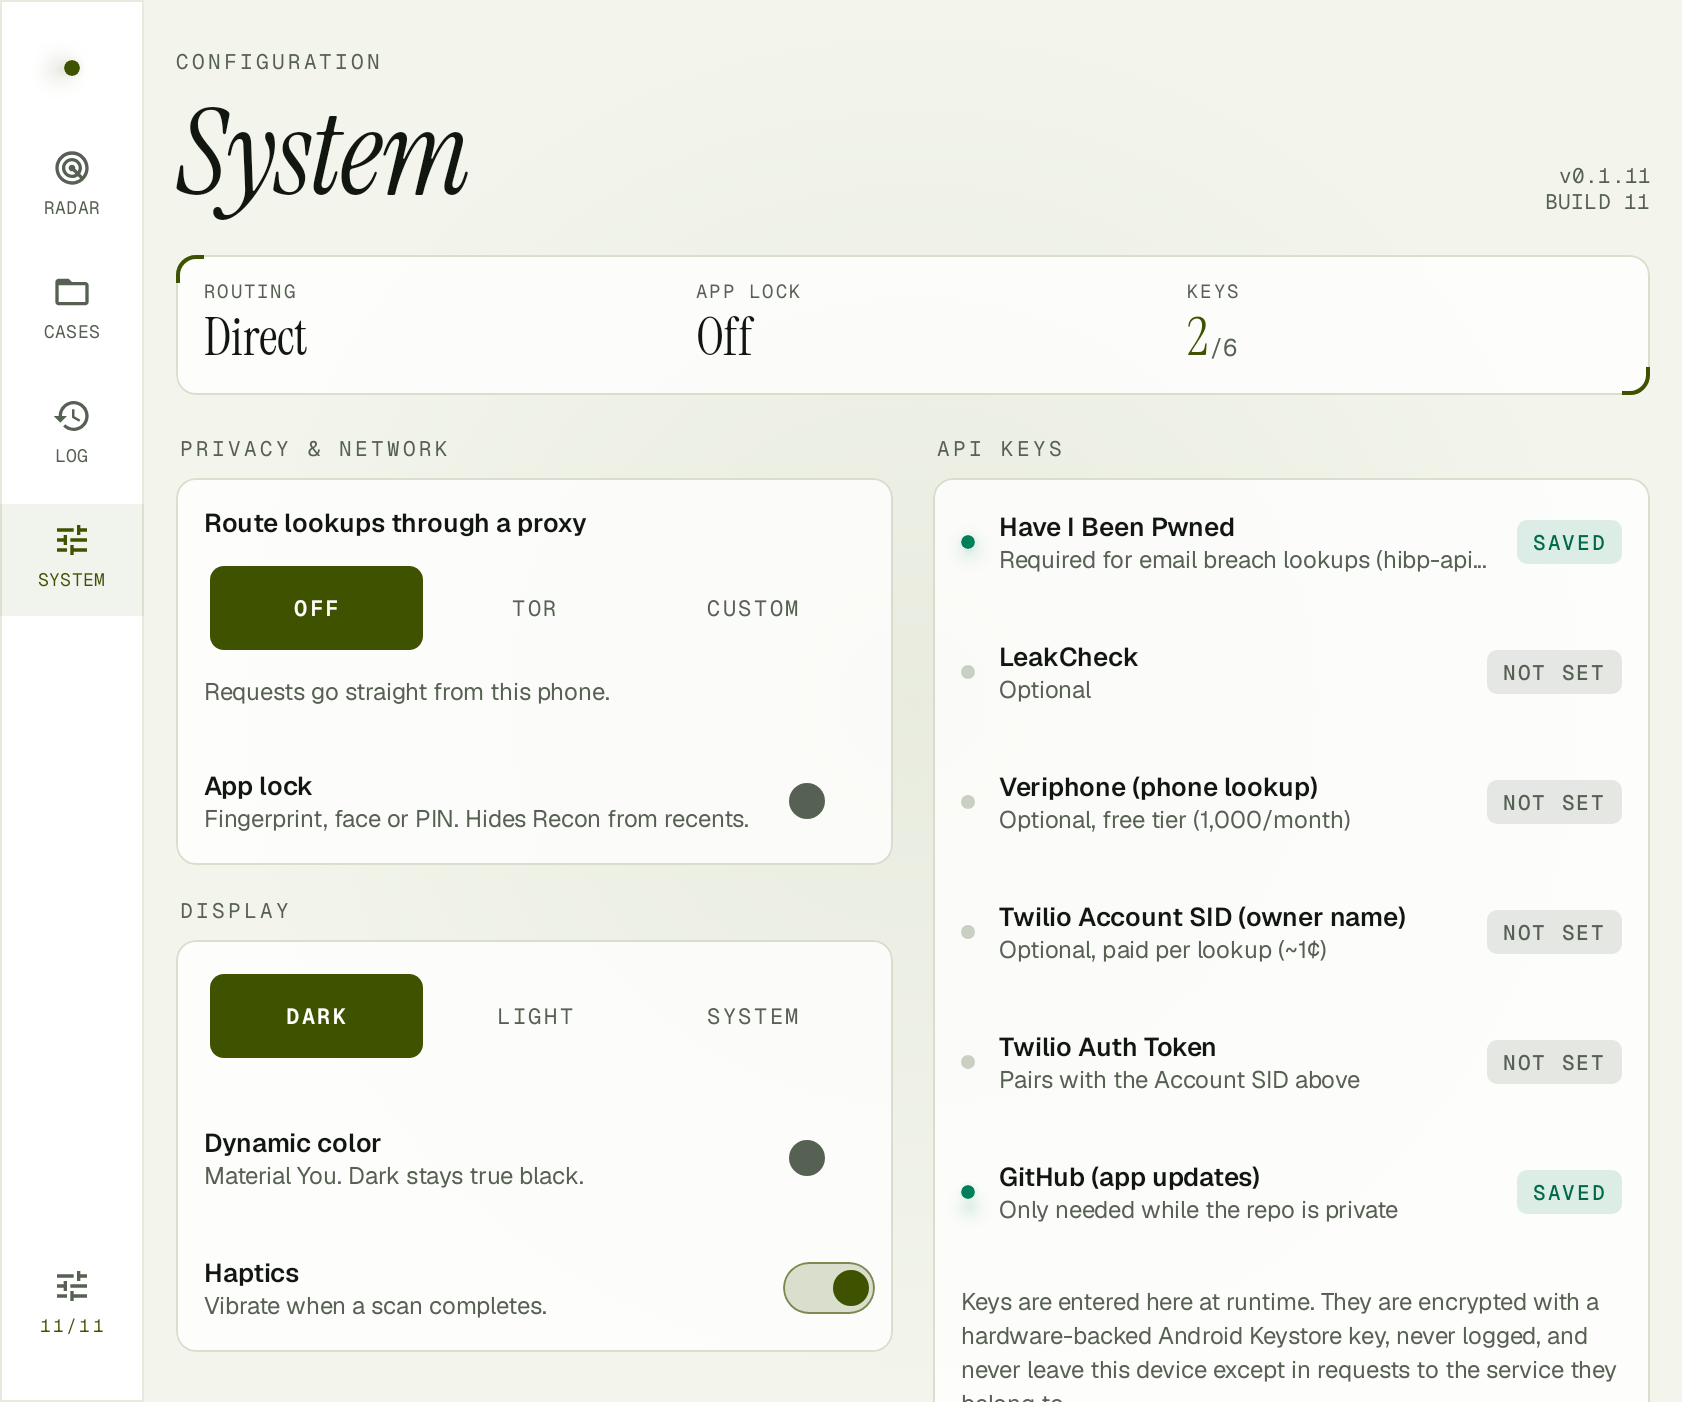
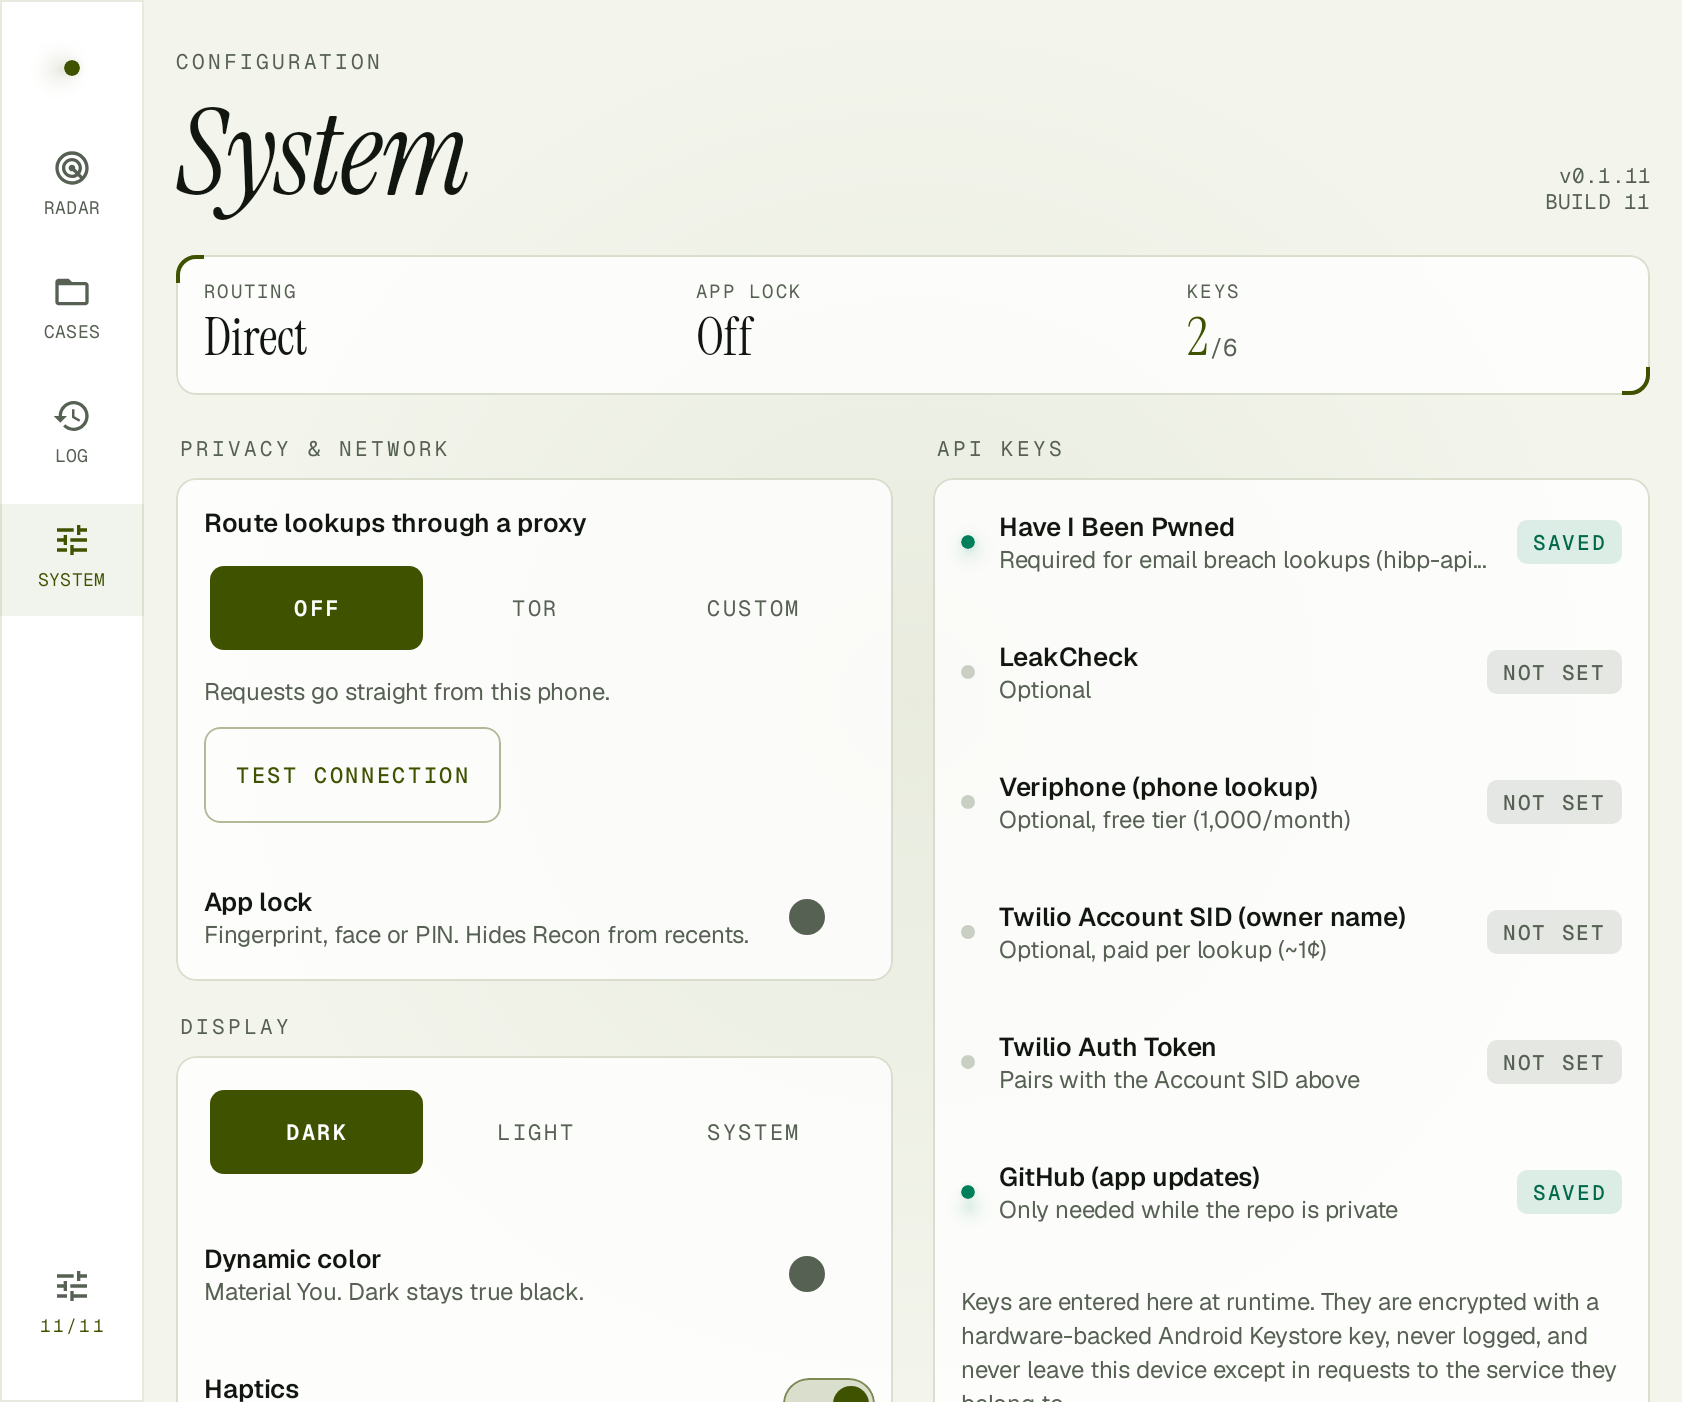
Log width on large screens, docs, regenerated screenshots
Claude-Session: https://claude.ai/code/session_018A3LeNHC25Dd1z2KQ4XMJz

diff --git a/app/src/main/kotlin/vip/ringling/recon/ui/log/LogScreen.kt b/app/src/main/kotlin/vip/ringling/recon/ui/log/LogScreen.kt
@@ -14,6 +14,7 @@ import androidx.compose.foundation.layout.fillMaxWidth
 import androidx.compose.foundation.layout.height
 import androidx.compose.foundation.layout.heightIn
 import androidx.compose.foundation.layout.padding
+import androidx.compose.foundation.layout.widthIn
 import androidx.compose.foundation.layout.size
 import androidx.compose.foundation.layout.width
 import androidx.compose.foundation.lazy.LazyColumn
@@ -100,7 +101,7 @@ fun LogScreen(state: LogUiState, actions: LogActions, modifier: Modifier = Modif
     }
     Box(modifier.fillMaxSize().background(Brush.radialGradient(listOf(sig.signal.copy(alpha = 0.06f), Color.Transparent), radius = 700f))) {
         LazyColumn(
-            Modifier.fillMaxSize(),
+            Modifier.widthIn(max = 800.dp).fillMaxSize().align(Alignment.TopCenter),
             contentPadding = PaddingValues(top = contentPadding.calculateTopPadding() + 24.dp, bottom = contentPadding.calculateBottomPadding() + 24.dp, start = 16.dp, end = 16.dp),
             verticalArrangement = Arrangement.spacedBy(8.dp),
         ) {

diff --git a/CLAUDE.md b/CLAUDE.md
@@ -176,6 +176,16 @@ Private, sideloaded app. Repo: the GitHub repo this was cloned from (its owner i
 - Incoming: share sheet, text-selection menu (PROCESS_TEXT), `mailto:`/`tel:` links, launcher shortcut "Scan clipboard", Paste button on Radar (`IncomingText`).
 - Fold: `androidx.window` tabletop posture (`LocalTabletop`): results stack graph above findings. Unverified on a device.
 
+## Hardening & extras batch (added 2026-10-17)
+- **Encrypted DB** (`data/db/DbEncryption.kt`): SQLCipher via `SupportOpenHelperFactory`; random passphrase held only as AES-GCM ciphertext under a Keystore key (`DbKey`). A plaintext `recon.db` is converted in place on first launch (export, verify version + table count, swap, overwrite+delete old file). Fail-safe: any failure (native lib, Keystore, conversion) leaves the DB as it was and the app runs unencrypted rather than losing data; under Robolectric it always falls back. UNVERIFIED on a device. Room is v5 (`MIGRATION_4_5` adds `cases.tags`). `allowBackup=false`.
+- **Retention / wipe / welcome**: `DataGuard` (`purgeOlderThan` at launch + on setting change; `wipeEverything` = clearAllTables + handled + keys + settings + updates + cancels work). Settings: `retentionDays`, `autoRescan`, `onboarded`, `loaded` (first-run UI waits for `loaded`). `WelcomeDialog` explains keys once.
+- **Daily case re-scan** (`data/watch/AutoRescan.kt`): WorkManager, scans every non-ZIP/non-photo case target, records scans, notifies only if worse or a new finding (`AutoRescanLogic`); runs with a failed source are skipped (no false "improved").
+- **Tor test**: System -> Privacy -> "Test connection" (`RouteTester`, check.torproject.org/api/ip through the same client/proxy selector as every lookup).
+- **Look-alike domains**: opt-in free action on domain scans (`LookalikeGenerator` + `LookalikeLookup`, DoH only, reuses the `PaidAction` confirm flow with "Free" wording). Handle variants (`Variants`, in the DORKS module) give "Search next" pivots.
+- **Cases**: tags (`CaseFileRepository.normalizeTags`), search (`CaseSearch`), "Expand leads (up to 8)" adds pivot targets and scans them; Log has a search box.
+- **Site health** (`SiteHealth`): username sites inconclusive 5 sweeps in a row are skipped for a week; a sweep where nothing was conclusive records nothing.
+- **Lint** runs in CI (`lintDebug`). Fixed: `InputStream.readNBytes` (API 33) crash on API 29-32, missing `USE_BIOMETRIC`, `LocalActivity`, location SecurityException.
+
 ## Open items / notes
 - **Legal notice wording** (`ui/components/Cards.kt`, Settings) now follows the statements on the Idaho SOR site itself
   (74-120: no commercial use / no phone or mailing lists; 18-8326 & 18-8413 anti-harassment). Still worth a read by a human.
